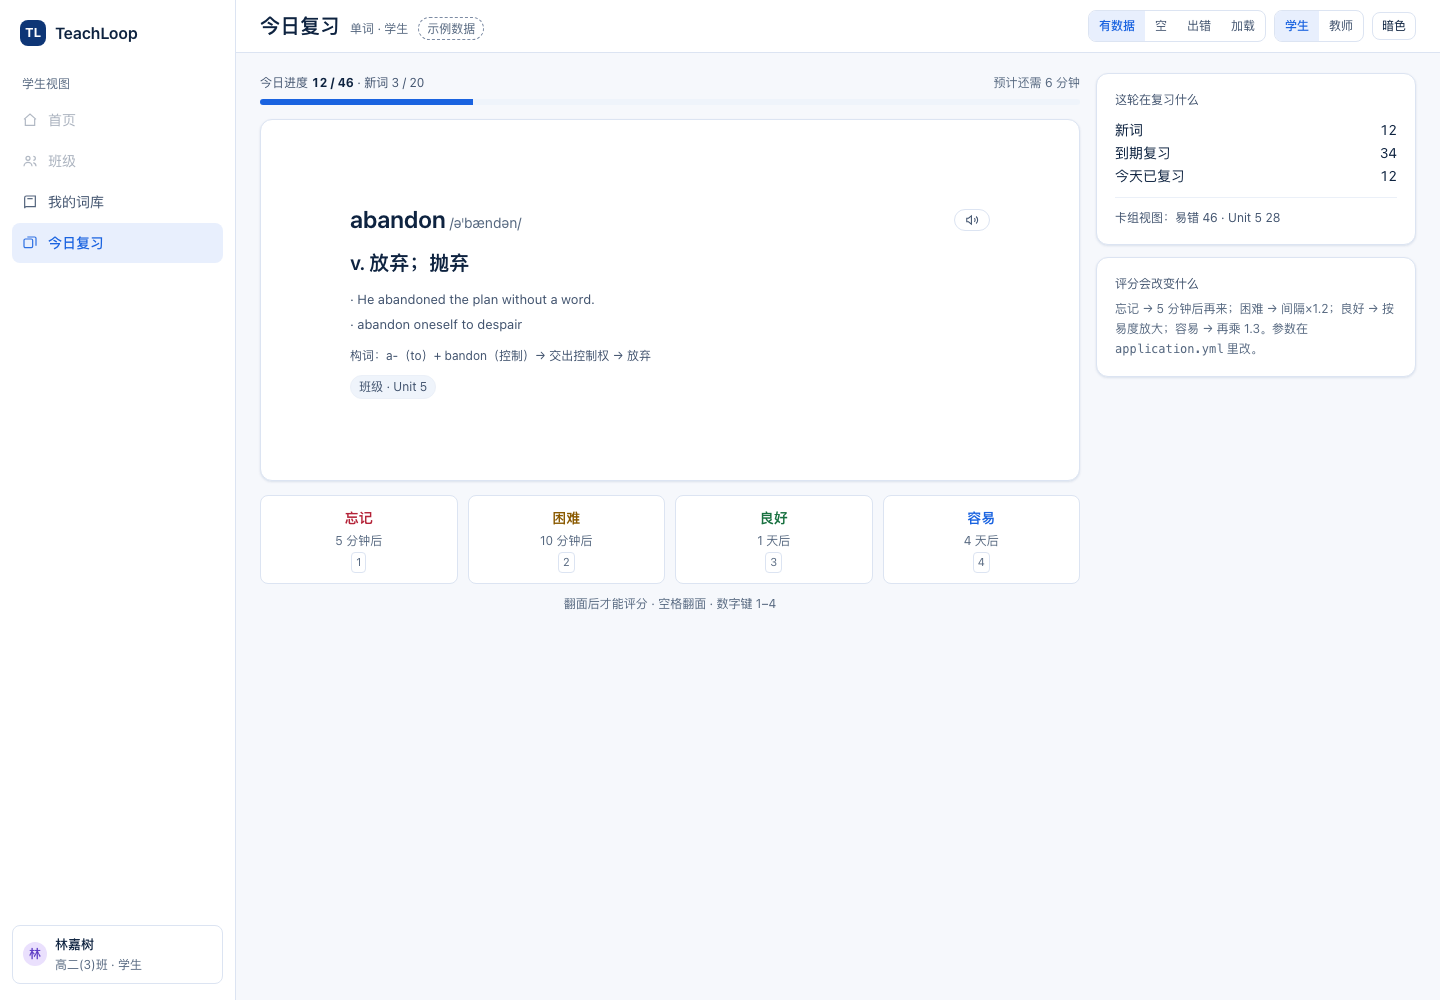
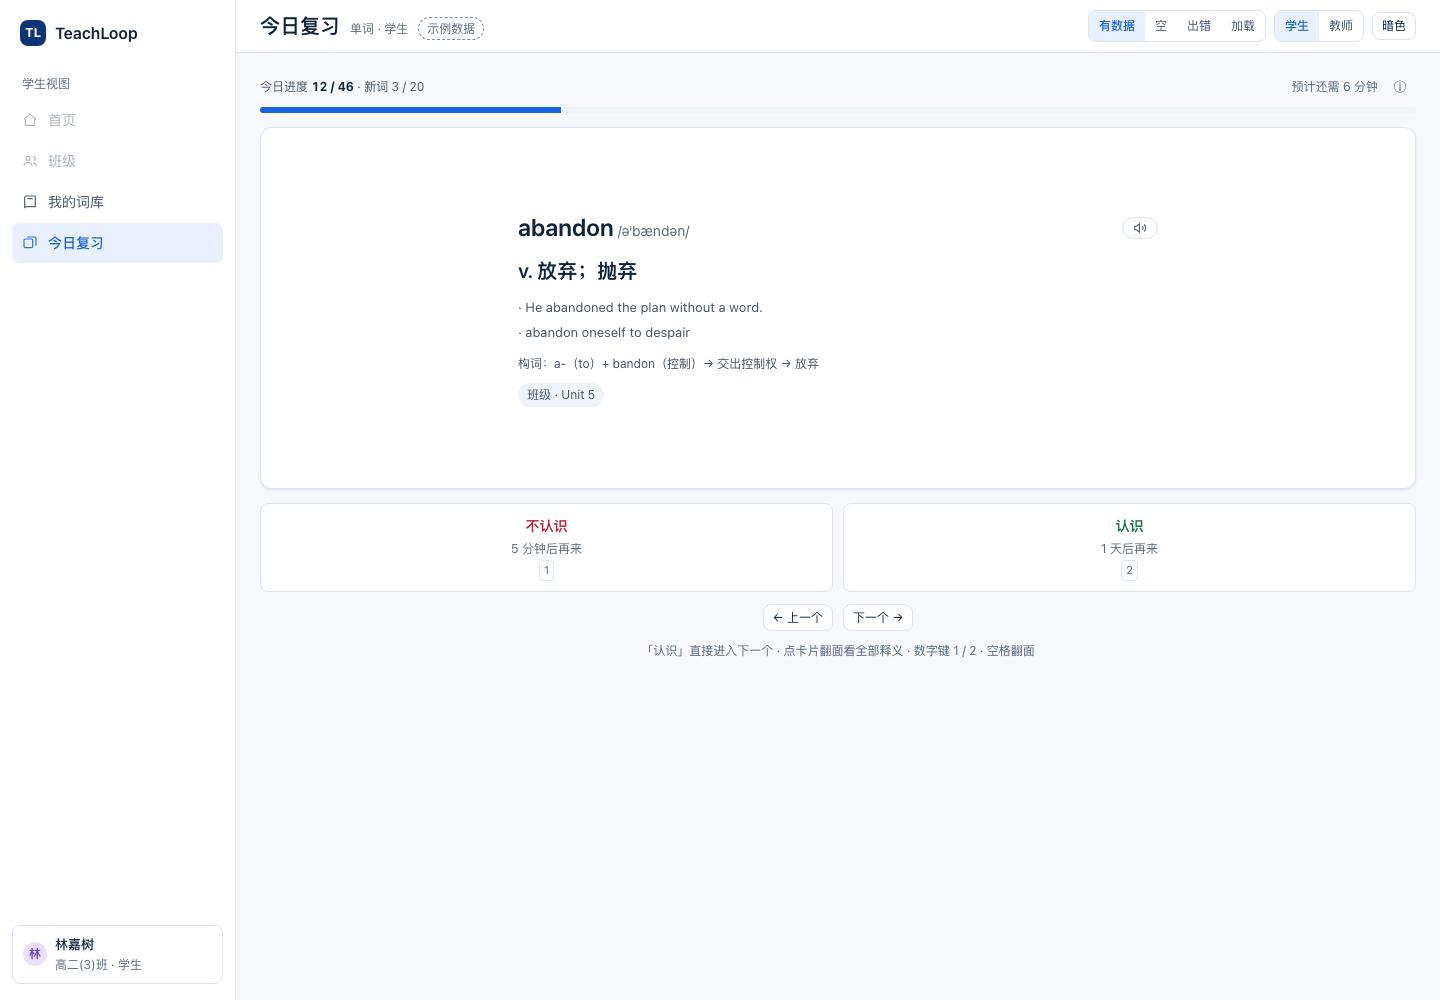
docs(vocab): 复习页改两档评分 + 上/下一个 + 说明收进 info 气泡
按 2026-10-23 第五轮反馈：

- 评分从四档改为两档「不认识 / 认识」，随时可点，点「认识」直接下一张；
  点卡片才翻面看完整释义
- 新增「← 上一个 / 下一个 →」；第一张时上一个禁用
- 「这轮在复习什么」「评分会改变什么」两块说明移出页面，收进进度条旁的 ⓘ 气泡
- 详情页补齐：释义按词性两条、例句三条（各自可朗读、带中文），构词/词族/笔记/图片位/反馈保留

spec：AC-53.2 改两档、AC-53.7 新增上/下一个、AC-52.2 说明进气泡；
§5 注明界面两档与内部四档参数的默认映射；新增 §17 列出三个待讨论问题。
自检：US=16 AC=89 FR=24。

diff --git a/docs/mock/vocab-2026-10-23/index.html b/docs/mock/vocab-2026-10-23/index.html
@@ -349,7 +349,7 @@ const S = {
   modal:false,
   popFilters:{src:[], deck:'all', status:'all', lang:'en'},
   free:false, freeTotal:0, freeIdx:0, freeKnown:0, freeRated:{again:0,hard:0,good:0,easy:0},
-  detail:null, fav:['abandon','accumulate'], paused:[],
+  detail:null, fav:['abandon','accumulate'], paused:[], info:false,
   addTab:'paste', setTab:'words', paste: SAMPLE_PASTE, parseDone:false,
 };
 
@@ -449,6 +449,8 @@ function markKnown(word){
   render();
 }
 function unmarkKnown(w){ S.known=S.known.filter(x=>x!==w); render(); toast('已重新加入生词本，今天可再次复习'); }
+function nextCard(){ if(S.free){S.freeIdx++;} else {S.idx++;} S.flipped=false; render(); }
+function prevCard(){ if(S.free){ if(S.freeIdx>0) S.freeIdx--; } else { if(S.idx>0) S.idx--; } S.flipped=false; render(); }
 function endFree(){ S.screen='summary'; render(); }
 function openDetail(w){ S.detail=w; S.screen='detail'; render(); }
 function nextDue(w){ const i = WORDS.indexOf(w); return i; }
@@ -651,10 +653,30 @@ function screenDetail(){
       </div>
 
       <div class="card card-pad" style="margin-bottom:12px">
-        <div class="sm muted" style="margin-bottom:6px">释义（按词性）</div>
-        <div style="font-size:16px;font-weight:600;margin-bottom:4px">v. 放弃；抛弃</div>
-        <div class="sm muted">He abandoned the plan without a word. / 他一句话没说就放弃了计划。</div>
-        <div class="row" style="margin-top:10px;gap:8px"><span class="chip insights">词频 A2</span><span class="chip ${w.srcType}">${w.src}</span></div>
+        <div class="between" style="margin-bottom:6px">
+          <div class="sm muted">释义（按词性，来自异步生成）</div>
+          <div class="row" style="gap:6px"><span class="chip insights">词频 A2</span><span class="chip ${w.srcType}">${w.src}</span></div>
+        </div>
+        <div style="font-size:15px;font-weight:600">v. 放弃；抛弃；离弃</div>
+        <div class="sm muted" style="margin:2px 0 8px">to leave someone or something you are responsible for</div>
+        <div style="font-size:15px;font-weight:600">v. 中止；放弃（计划、想法）</div>
+        <div class="sm muted">to stop doing something before it is finished</div>
+      </div>
+
+      <div class="card card-pad" style="margin-bottom:12px">
+        <div class="between" style="margin-bottom:6px">
+          <div class="sm muted">例句（每条可单独朗读）</div>
+          <button class="btn ghost sm" onclick="toast('展开全部例句')">全部 6 条</button>
+        </div>
+        ${[
+          ['He abandoned the plan without a word.','他一句话没说就放弃了计划。'],
+          ['The crew abandoned the sinking ship.','船员弃船逃生。'],
+          ['She never abandoned hope of finding her brother.','她从未放弃寻找弟弟的希望。'],
+        ].map(([en,zh])=>`<div style="margin-bottom:10px">
+          <div class="between"><span>${en}</span>
+            <button class="btn ghost sm" title="朗读例句" onclick="toast('朗读例句（TTS 缓存命中 40ms）')">${ICONS.speaker}</button></div>
+          <div class="sm muted-2">${zh}</div>
+        </div>`).join('')}
       </div>
 
       <div class="card card-pad" style="margin-bottom:12px">
@@ -752,43 +774,38 @@ function screenReview(){
       </div>
     </div>`;
   return `
-  <div class="review-wrap">
+  <div class="review-wrap" style="grid-template-columns:minmax(0,1fr)">
     <div>
       <div class="between" style="margin-bottom:6px">
         ${S.free
           ? `<span class="sm muted">自由复习 <b class="mono" style="color:var(--text)">${S.freeIdx} / ${S.freeTotal}</b> · 已标熟悉 ${S.freeKnown}</span>
              <span class="sm muted-2">随时可停 · 进度会保留</span>`
           : `<span class="sm muted">今日进度 <b class="mono" style="color:var(--text)">12 / 46</b> · 新词 3 / 20</span>
-             <span class="sm muted-2">预计还需 6 分钟</span>`}
+             <span class="row" style="gap:6px"><span class="sm muted-2">预计还需 6 分钟</span>
+          <button class="btn ghost sm" title="这一轮在复习什么" onclick="S.info=!S.info;render()">ⓘ</button></span>`}
       </div>
       <div class="progress" style="margin-bottom:14px"><i style="width:26%"></i></div>
+      ${S.info?`<div class="card card-pad" style="margin-bottom:12px;border-left:3px solid var(--accent)">
+        <div class="between"><b class="sm">这一轮在复习什么</b><button class="btn ghost sm" onclick="S.info=false;render()">关闭</button></div>
+        <div class="sm muted" style="margin-top:6px">新词 12 · 到期复习 34 · 今天已复习 12 · 卡组视图：易错 46 / Unit 5 28</div>
+        <div class="sm muted-2" style="margin-top:6px">「认识」按当前间隔往后推，「不认识」回到很短的重来间隔；具体倍数由调度策略决定（§5，待讨论）。</div>
+      </div>`:''}
       <div class="card">${S.flipped?back:front}</div>
-      <div class="rates" ${S.flipped?'':'style="opacity:.45"'}>
-        <button class="rate again" ${S.flipped?'':'disabled'} onclick="S.flipped&&rate('again')"><span class="n">忘记</span><span class="d">5 分钟后</span><span class="kbd">1</span></button>
-        <button class="rate hard" ${S.flipped?'':'disabled'} onclick="S.flipped&&rate('hard')"><span class="n">困难</span><span class="d">10 分钟后</span><span class="kbd">2</span></button>
-        <button class="rate good" ${S.flipped?'':'disabled'} onclick="S.flipped&&rate('good')"><span class="n">良好</span><span class="d">1 天后</span><span class="kbd">3</span></button>
-        <button class="rate easy" ${S.flipped?'':'disabled'} onclick="S.flipped&&rate('easy')"><span class="n">容易</span><span class="d">4 天后</span><span class="kbd">4</span></button>
+      <div class="rates" style="grid-template-columns:repeat(2,1fr)">
+        <button class="rate again" onclick="rate('again')"><span class="n">不认识</span><span class="d">5 分钟后再来</span><span class="kbd">1</span></button>
+        <button class="rate good" onclick="rate('good')"><span class="n">认识</span><span class="d">1 天后再来</span><span class="kbd">2</span></button>
       </div>
-      <div class="hint">翻面后才能评分 · 空格翻面 · 数字键 1–4${S.free?' · S 移出复习':''}</div>
+      <div class="row" style="justify-content:center;margin-top:12px;gap:10px">
+        <button class="btn sm" ${(S.free?S.freeIdx:S.idx)<=0?'disabled':''} onclick="prevCard()">← 上一个</button>
+        <button class="btn sm" onclick="nextCard()">下一个 →</button>
+      </div>
+      <div class="hint">「认识」直接进入下一个 · 点卡片翻面看全部释义 · 数字键 1 / 2 · 空格翻面${S.free?" · S 移出复习":""}</div>
       ${S.free?`<div class="row" style="justify-content:center;margin-top:8px">
         <button class="btn" onclick="markKnown(currentWord().w);toast('已移出复习')">移出复习（S）</button>
         <button class="btn" onclick="endFree()">结束复习</button>
       </div>`:''}
     </div>
-    <aside>
-      <div class="card card-pad" style="margin-bottom:12px">
-        <div class="sm muted" style="margin-bottom:8px">这轮在复习什么</div>
-        <div class="row" style="justify-content:space-between"><span>新词</span><span class="mono">12</span></div>
-        <div class="row" style="justify-content:space-between"><span>到期复习</span><span class="mono">34</span></div>
-        <div class="row" style="justify-content:space-between"><span>今天已复习</span><span class="mono">12</span></div>
-        <div style="border-top:1px solid var(--line-2);margin:10px 0"></div>
-        <div class="sm muted">卡组视图：易错 46 · Unit 5 28</div>
-      </div>
-      <div class="card card-pad">
-        <div class="sm muted" style="margin-bottom:6px">评分会改变什么</div>
-        <div class="sm muted-2">忘记 → 5 分钟后再来；困难 → 间隔×1.2；良好 → 按易度放大；容易 → 再乘 1.3。参数在 <code style="font-family:ui-monospace,Menlo,monospace">application.yml</code> 里改。</div>
-      </div>
-    </aside>
+
   </div>`;
 }
 function rate(k){
@@ -1040,7 +1057,7 @@ document.getElementById('themeBtn').addEventListener('click', ()=>{
 document.addEventListener('keydown', e=>{
   if (S.screen!=='review' || S.ds!=='data') return;
   if (e.code==='Space'){ e.preventDefault(); S.flipped=!S.flipped; render(); }
-  if (['1','2','3','4'].includes(e.key) && S.flipped) rate({1:'again',2:'hard',3:'good',4:'easy'}[e.key]);
+  if (e.key==='1'||e.key==='2') rate(e.key==='1'?'again':'good');
   if (e.key.toLowerCase()==='s' && S.free) { markKnown(currentWord().w); toast('已移出复习'); }
 });
 /* 支持 #review / #wordset / #assign / #library?ds=empty 深链，方便截图与评审 */

diff --git a/specs/004-vocab/spec.md b/specs/004-vocab/spec.md
@@ -95,7 +95,7 @@
 ### US-52 今日复习队列
 
 - [ ] AC-52.1 队列 = 到期时间 ≤ 当前时间 的词，按到期时间升序；可按卡组视图或来源收窄。
-- [ ] AC-52.2 队列页显示三个数并写字面口径：今日已复习 N 张（今天已评分的次数）、剩余待复习 M 张（今天到期且已到时间）、本次新卡 K 张（今天首次进队列）。
+- [ ] AC-52.2 队列页显示三个数并写字面口径：今日已复习 N 张（今天已评分的次数）、剩余待复习 M 张（今天到期且已到时间）、本次新卡 K 张（今天首次进队列）。**这三个数与「评分会改变什么」这类说明性内容不占页面版面**，收进进度条旁的 ⓘ 气泡，点开才显示。
 - [ ] AC-52.3 每日新卡上限默认 **20**，由 `teachloop.vocab.review.daily-new-cards` 配置；超出部分次日再进队列，并显示「今天的新卡已用完」。
 - [ ] AC-52.4 到期卡不限量，但单次最多加载 100 张，滚动到末尾自动加载更多。
 - [ ] AC-52.5 空队列有明确空态「今天没有要复习的卡」，并给「去词库加词」入口。
@@ -104,9 +104,10 @@
 ### US-53 四级评分与间隔调度
 
 - [ ] AC-53.1 复习页正面显示单词与发音；翻面（点击卡片或空格）后显示释义、例句、构词分析、个人笔记。
-- [ ] AC-53.2 四个按钮「忘记 / 困难 / 良好 / 容易」，每个都直接显示各自的下次间隔（如「3 天后」）；键盘 1–4 等价。**翻面之前四个按钮禁用**（降到 45% 不透明），翻面后才能点评分。
+- [ ] AC-53.2 只有**两个**评分按钮：**不认识 / 认识**，每个都显示下次间隔（如「5 分钟后再来」「1 天后再来」）；键盘 `1` / `2` 等价。按钮**任何时候都可点**（不必先翻面）；点「认识」立即进入下一个词。**点击卡片才翻面**看完整释义、例句、构词与笔记。
 - [ ] AC-53.3 提交评分后立即进入下一张；同时写入一条复习日志（词条、评分、时间、可选耗时）。
-- [ ] AC-53.4 按 §5 的表更新该词进度（状态、到期时间、间隔、易度）；该词下次出现的时间与表一致。
+- [ ] AC-53.7 复习页有**「← 上一个 / 下一个 →」**：上一个可回看已评过的词（回看不改评分），下一个可跳过当前词；第一张时「上一个」禁用。
+- [ ] AC-53.4 按 §5 的表更新该词进度（状态、到期时间、间隔、易度）；该词下次出现的时间与表一致。**两档评分到内部调度参数的映射见 §5 与 §17（待讨论）**，实现时先按默认映射落地。
 - [ ] AC-53.5 调度决策来自**可替换策略**，默认 SM-2；验收判定以「默认策略」为准，换策略不改表结构。
 - [ ] AC-53.6 提交失败（断网/5xx）时停留在当前卡并提示重试；不前进、不重复记日志（同一次提交带幂等标识）。
 
@@ -219,6 +220,8 @@
 ## 5. 调度参数（默认 SM-2 策略，本期取值）
 
 参数集中一处、可调；调参不算改需求。表里标「源」的来自外部需求文档，标「补」的是文档没写、本项目补齐的。
+
+> **界面只有两档（认识 / 不认识）**。下表仍是内部策略的四档参数；默认映射是「认识 → 3 良好」「不认识 → 1 忘记」，该映射在 §17 待讨论，改映射不动 UI。
 
 | 评分 | 状态迁移 | 下次间隔 | 易度变化 |
 | :--- | :--- | :--- | :--- |
@@ -467,3 +470,12 @@
 | 去掉工具条的「全部 1284 / 易错 46」 | 已移除；视图切换合并进筛选弹窗（AC-59.9） |
 | 「复习这些词」复习的是筛选结果而不是本页 | 按筛选结果取数，并排除「已移出」的词；按钮显示排除后的数量（AC-61.1） |
 | 筛选弹窗里来源要能多选 | 来源改为多选 chips，多个取并集，不选 = 全部（AC-59.9） |
+
+
+## 17. 待讨论：两档评分怎么进调度
+
+界面改成两档后，内部调度必须回答三个问题（下一轮用 question 定）：
+
+1. **认识 → 哪一档**：良好（间隔按易度放大）／容易（额外 ×1.3）／自定义（如认识 1 次固定 +2 天）。
+2. **不认识 → 是否重置**：回到 5 分钟（现在的 SM-2 行为）／只把间隔减半（更温和）／只降易度不动间隔。
+3. **要不要「连续认识 N 次自动毕业」**：与词库里的「移出复习」是否合并，避免两套「不用再背」的语义。
